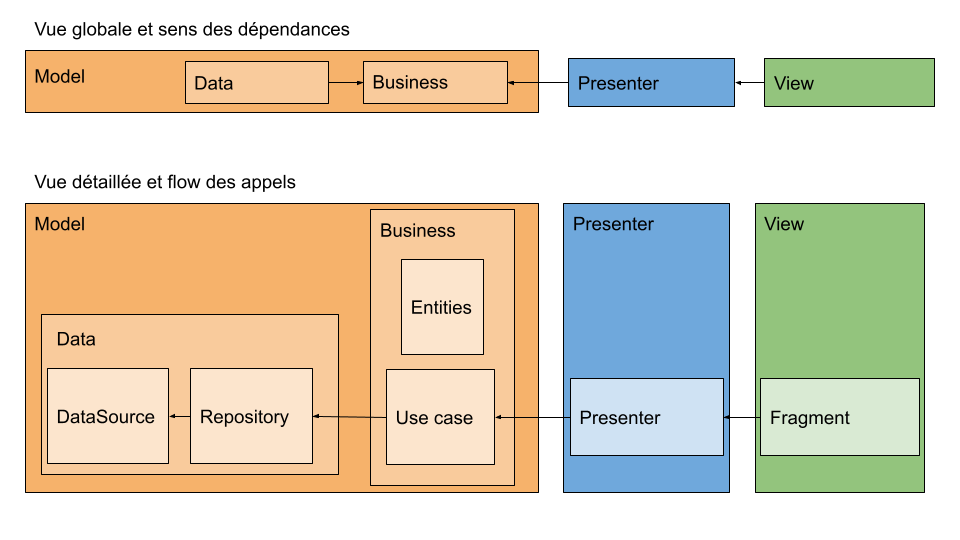
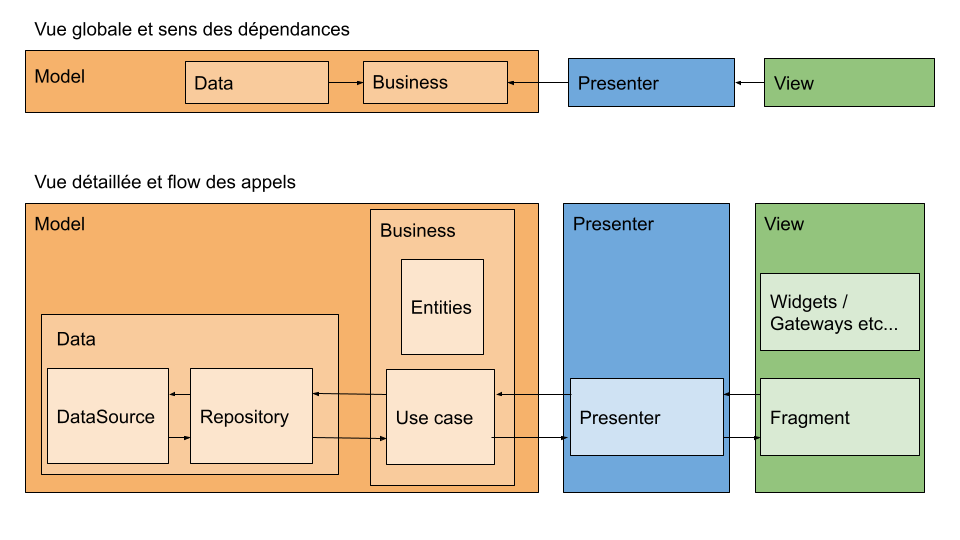
Update diagram

Changed region(s): [[0.7812, 0.5037, 0.9688, 0.6519], [0.3438, 0.7704, 0.4062, 0.8296], [0.3438, 0.7111, 0.375, 0.7407]]

diff --git a/README.md b/README.md
@@ -1,5 +1,14 @@
 # FDJTest-MVP
 
+Architecture : MVP en respectant les principes de clean archi
+4 modules : app / business (kotlin) / data (kotlin) / presentation
+Le module business ne dépend de rien
+Le module data ne dépend que de business
+Le module presentation ne dépend que de business
+Le module app fait juste le lien entre le tout pour l'injection des dépendances
+
+![Arch diagram](arch_diagram.png)
+
 Technos utilisées :
 - Koin : pour l'injection de dépendance, le code s'adaptera facilement à un autre SDK (Dagger, Hilt, Service locator "maison" etc...)
 - Android Navigation : pour la navigation
@@ -8,7 +17,6 @@ Technos utilisées :
 - Coroutines
 - Les libs classiques pour la vue
 
-![Arch diagram](arch_diagram.png)
 
 Points d'améliorations possibles :
 - Faire le bonus de l'auto completion ;)
@@ -16,9 +24,9 @@ Points d'améliorations possibles :
 - On a déjà toutes les données nécessaire sur une équipe lors du premier appel, on pourrait donc se passer de faire le deuxième appel pour afficher le détail
 - Mettre en place un refresh en cas d'erreur
 - Tests :
-  * J'ai testé unitairement uniquement la partie business, mais tout le reste est testable également sur le même principe (presenter, repository, data source, fragments)
+  * J'ai testé unitairement uniquement la partie business, mais tout le reste est testable également sur le même principe
   * Ajouter des tests d'intégration entre : fragment/presenter, presenter/use case, repository/data source
   * On peut évidemment aussi ajouter des tests fonctionnels
-- Passer sur du MVVM, qui sur Android permet de ne pas trop de soucier des problèmes de cycle de vie, que ce soit pour l'observation ou les coroutines
+- Passer sur du MVVM, sur Android ça permet de ne pas trop de soucier des problèmes de cycle de vie
 - Avec quelques tweaks, il est possible rendre les presenters totalement indépendants de la plateforme
 
